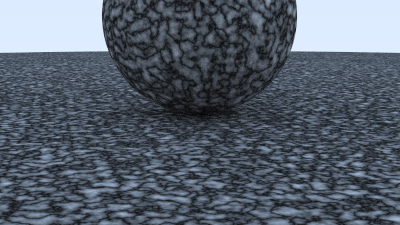
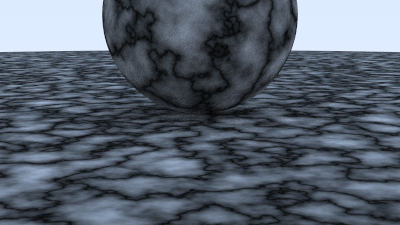
Updates for Perlin turbulence
Includes updated Perlin turbulence image.

diff --git a/books/RayTracingTheNextWeek.html b/books/RayTracingTheNextWeek.html
@@ -2470,6 +2470,13 @@ turbulence, and is a sum of repeated calls to noise:
       ...
       public:
         ...
+
+        double noise(const point3& p) const {
+            ...
+        }
+
+
+    ~~~~~~~~~~~~~~~~~~~~~~~~~~~~~~~~~~~~~~~~~~~~~~~~~~~~~~~~~~~~~~~~~~~~~~~~~~~~~~~~~~ C++ highlight
         double turb(const point3& p, int depth) const {
             auto accum = 0.0;
             auto temp_p = p;
@@ -2483,11 +2490,14 @@ turbulence, and is a sum of repeated calls to noise:
 
             return fabs(accum);
         }
+    ~~~~~~~~~~~~~~~~~~~~~~~~~~~~~~~~~~~~~~~~~~~~~~~~~~~~~~~~~~~~~~~~~~~~~~~~~~~~~~~~~~~~~~~~~~~~ C++
+
         ...
     ~~~~~~~~~~~~~~~~~~~~~~~~~~~~~~~~~~~~~~~~~~~~~~~~~~~~~~~~~~~~~~~~~~~~~~~~~~~~~~~~~~~~~~~~~~~~~~~~
     [Listing [perlin-turb]: <kbd>[perlin.h]</kbd> Turbulence function]
 
-Here `fabs()` is the absolute value function defined in `<cmath>`.
+Here `fabs()` is the absolute value function defined in `<cmath>`. Now we'll use the new Perlin
+turbulence function to update our Perlin sphere:
 
     ~~~~~~~~~~~~~~~~~~~~~~~~~~~~~~~~~~~~~~~~~~~~~~~~~~~~~~~~~~~~~~~~~~~~~~~~~~~~~~~~~~~~~~~~~~~~ C++
     class noise_texture : public texture {
